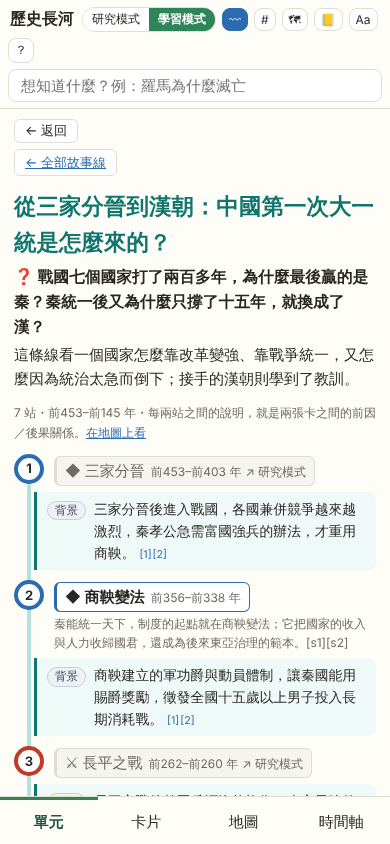
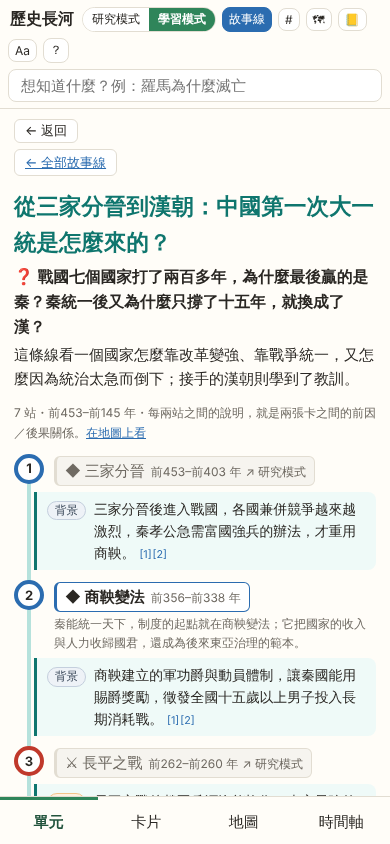
依 Fable 複查修正：因果條目改 10 刪 3、新增「西力東漸」故事線、所在故事列合併、關係說明可展開
- 歷史：技術→戰爭改為「背景」並註明影響的是戰局；刪除來源撐不起的 3 條；十信、威尼斯、索利都斯、大蕭條等條目修正與補來源
- 教學：故事線問題避免單因與誤導；新增 story-western-impact（蒸汽機→鴉片戰爭→自強運動→辛亥革命）
- UIUX：單元與故事線上下站相同時合併；手機「故事線」改文字；關係標籤加 aria-label、可展開「四種關係是什麼意思」；濾掉 [s] 代號

Claude-Session: https://claude.ai/code/session_01JFJ5rd6R8SGhXn5wyjPUjh

diff --git a/src/components/Story.tsx b/src/components/Story.tsx
@@ -48,7 +48,7 @@ function Sources({ list }: { list: CauseSource[] }) {
 }
 
 export function RelChip({ rel }: { rel: CauseRel }) {
-  return <span className={`rel-chip ${REL_CLASS[rel] ?? ''}`} title={REL_HELP[rel]}>{rel}</span>;
+  return <span className={`rel-chip ${REL_CLASS[rel] ?? ''}`} title={REL_HELP[rel]} aria-label={`${rel}：${REL_HELP[rel]}`}>{rel}</span>;
 }
 
 /** 從哪裡來／往哪裡去 */
@@ -66,15 +66,18 @@ export function CauseList({ card, side, index, onOpen, canOpen, researchHref, co
         {sorted.map((x, i) => (
           <li key={i}>
             <div className="ce-line">
-              {isCause ? <><CardRef id={x.id} name={x.name} index={index} onOpen={onOpen} canOpen={canOpen} researchHref={researchHref} /><span className="ce-arrow" aria-hidden>─</span><RelChip rel={x.rel} /><span className="ce-arrow" aria-hidden>▶ 本卡</span></>
-                : <><span className="ce-arrow" aria-hidden>本卡 ─</span><RelChip rel={x.rel} /><span className="ce-arrow" aria-hidden>▶</span><CardRef id={x.id} name={x.name} index={index} onOpen={onOpen} canOpen={canOpen} researchHref={researchHref} /></>}
+              {isCause ? <><CardRef id={x.id} name={x.name} index={index} onOpen={onOpen} canOpen={canOpen} researchHref={researchHref} /><span className="ce-rel"><RelChip rel={x.rel} /><span className="ce-arrow" aria-hidden>→ 本卡</span></span></>
+                : <><span className="ce-rel"><span className="ce-arrow" aria-hidden>本卡 →</span><RelChip rel={x.rel} /></span><CardRef id={x.id} name={x.name} index={index} onOpen={onOpen} canOpen={canOpen} researchHref={researchHref} /></>}
               {x.disputed && <span className="badge dispute" title="史家對這個因果看法不一">史家看法不一</span>}
             </div>
             <p className="ce-why">{x.why}<Sources list={x.sources} /></p>
           </li>
         ))}
       </ul>
-      {!compact && <p className="ce-help muted small">關係由強到弱：直接引發 ＞ 促成 ＞ 背景；「回應」是對前一件事的反應。一件大事通常不只一個原因。</p>}
+      <details className="ce-help small"><summary>四種關係是什麼意思？</summary>
+        <ul>{(Object.keys(REL_HELP) as CauseRel[]).map((r) => <li key={r}><RelChip rel={r} /> {REL_HELP[r]}</li>)}</ul>
+        <p className="muted">由強到弱：直接引發 ＞ 促成 ＞ 背景；「回應」是對前一件事的反應。一件大事通常不只一個原因，這裡只列最重要的幾個。</p>
+      </details>
     </section>
   );
 }
@@ -116,22 +119,33 @@ export function PathNav({ card, index, onOpen, canOpen, researchHref, onUnit, un
     if (canOpen && !canOpen(c)) return researchHref ? <a className={`pn-step ${dir}`} href={researchHref(id)}>{label}</a> : null;
     return <button className={`pn-step ${dir}`} onClick={() => onOpen(id)}>{label}</button>;
   };
+  // 學習單元和故事線的上一站／下一站常常一樣：一樣的只畫一組按鈕，手機上才不會又高又重複
+  const groups: { key: string; hits: PathHit[] }[] = [];
+  for (const h of hits) {
+    const key = `${h.prev ?? ''}|${h.next ?? ''}`;
+    const g = groups.find((x) => x.key === key);
+    if (g) g.hits.push(h); else groups.push({ key, hits: [h] });
+  }
   return (
     <nav className="path-nav" aria-label="這張卡在哪些故事裡">
       <div className="pn-label">這張卡在這些故事裡</div>
-      {hits.map((h) => (
-        <div key={h.kind + h.id} className={`pn-row ${h.kind}`}>
-          <div className="pn-title">
-            <span className="pn-kind">{h.kind === 'unit' ? '學習單元' : '故事線'}</span>
-            {h.kind === 'story' ? <button className="link" onClick={() => onStory(h.id)}>《{h.title}》</button>
-              : onUnit ? <button className="link" onClick={() => onUnit(h.id)}>《{h.title}》</button>
-              : unitHref ? <a className="link" href={unitHref(h.id)}>《{h.title}》</a> : <span>《{h.title}》</span>}
-            <span className="pn-dots" aria-label={`第 ${h.pos} 站，共 ${h.total} 站`}>
-              {Array.from({ length: h.total }, (_, i) => <i key={i} className={i + 1 === h.pos ? 'on' : i + 1 < h.pos ? 'past' : ''} />)}
-            </span>
-            <span className="pn-pos">第 {h.pos}／{h.total} 站</span>
-          </div>
-          <div className="pn-steps">{step(h.prev, 'prev')}{step(h.next, 'next')}</div>
+      {groups.map((g) => (
+        <div key={g.key} className="pn-group">
+          {g.hits.map((h) => (
+            <div key={h.kind + h.id} className={`pn-row ${h.kind}`}>
+              <span className="pn-kind">{h.kind === 'unit' ? '學習單元' : '故事線'}</span>
+              {h.kind === 'story' ? <button className="link pn-name" onClick={() => onStory(h.id)}>《{h.title}》</button>
+                : onUnit ? <button className="link pn-name" onClick={() => onUnit(h.id)}>《{h.title}》</button>
+                : unitHref ? <a className="link pn-name" href={unitHref(h.id)}>《{h.title}》</a> : <span className="pn-name">《{h.title}》</span>}
+              <span className="pn-where">
+                <span className="pn-dots" aria-hidden>
+                  {Array.from({ length: h.total }, (_, i) => <i key={i} className={i + 1 === h.pos ? 'on' : i + 1 < h.pos ? 'past' : ''} />)}
+                </span>
+                <span className="pn-pos">第 {h.pos}／{h.total} 站</span>
+              </span>
+            </div>
+          ))}
+          <div className="pn-steps">{step(g.hits[0].prev, 'prev')}{step(g.hits[0].next, 'next')}</div>
         </div>
       ))}
     </nav>
@@ -178,7 +192,7 @@ export function StorylineView({ id, index, currentId, onOpen, onAll, canOpen, re
                 <span className="sv-dot" style={{ borderColor: TYPE_COLOR[c.type] }}>{i + 1}</span>
                 <div className="sv-card">
                   <CardRef id={c.id} index={index} onOpen={onOpen} canOpen={canOpen} researchHref={researchHref} />
-                  {c.learn?.why_care && <p className="sv-why muted small">{c.learn.why_care}</p>}
+                  {c.learn?.why_care && <p className="sv-why muted small">{c.learn.why_care.replace(/\[s\d+\]/g, '')}</p>}
                 </div>
               </div>
               {x.bridge && (

diff --git a/src/components/story.css b/src/components/story.css
@@ -15,13 +15,18 @@
 .cause-list ul { list-style: none; margin: 0; padding: 0; }
 .cause-list li { padding: 6px 0; border-top: 1px dashed var(--story-line); }
 .cause-list li:first-child { border-top: 0; padding-top: 2px; }
-.ce-line { display: flex; flex-wrap: wrap; align-items: center; gap: 4px 6px; }
+.ce-line { display: flex; flex-wrap: wrap; align-items: center; gap: 4px 8px; }
+.ce-rel { display: inline-flex; align-items: center; gap: 5px; white-space: nowrap; }
 .ce-arrow { color: var(--story); font-size: 12px; white-space: nowrap; }
 .ce-why { margin: 3px 0 0; font-size: .92em; line-height: 1.6; }
 .ce-src { margin-left: 3px; font-size: .78em; white-space: nowrap; }
 .ce-src a { color: var(--accent); text-decoration: none; margin-left: 1px; }
 .ce-src a:hover { text-decoration: underline; }
-.ce-help { margin: 4px 0 0; }
+.ce-help { margin: 6px 0 2px; }
+.ce-help summary { cursor: pointer; color: var(--muted); }
+.ce-help summary:hover, .ce-help summary:focus-visible { color: var(--story); }
+.ce-help ul { list-style: none; margin: 4px 0; padding: 0; display: grid; gap: 3px; }
+.ce-help p { margin: 2px 0 0; }
 .cause-list.compact { padding: 6px 10px 4px; }
 
 /* 卡片名稱按鈕 */
@@ -38,17 +43,19 @@
 /* 這張卡在這些故事裡 */
 .path-nav { border: 1px solid var(--story-line); border-radius: 10px; background: #fff; margin: 8px 0; padding: 6px 10px; }
 .pn-label { font-size: 12px; color: var(--story); font-weight: 700; margin-bottom: 2px; }
-.pn-row { padding: 5px 0; border-top: 1px solid #edf5f3; }
-.pn-row:first-of-type { border-top: 0; }
-.pn-title { display: flex; flex-wrap: wrap; align-items: center; gap: 4px 8px; font-size: .93em; }
-.pn-kind { font-size: 11px; border-radius: 4px; padding: 0 5px; background: var(--story-bg); color: var(--story); border: 1px solid var(--story-line); }
+.pn-group { padding: 4px 0 6px; border-top: 1px solid #edf5f3; }
+.pn-group:first-of-type { border-top: 0; }
+.pn-row { display: flex; flex-wrap: wrap; align-items: center; gap: 2px 8px; font-size: .93em; padding: 2px 0; }
+.pn-name { text-align: left; }
+.pn-where { display: inline-flex; align-items: center; gap: 6px; margin-left: auto; }
+.pn-kind { font-size: 11px; border-radius: 4px; padding: 0 5px; background: var(--story-bg); color: var(--story); border: 1px solid var(--story-line); white-space: nowrap; }
 .pn-row.unit .pn-kind { background: #eef4fb; color: #2b6cb0; border-color: #c3d6ee; }
 .pn-dots { display: inline-flex; gap: 3px; align-items: center; }
 .pn-dots i { width: 8px; height: 8px; border-radius: 50%; background: #d9e6e3; display: inline-block; }
 .pn-dots i.past { background: #8fcfc6; }
 .pn-dots i.on { background: var(--story); width: 11px; height: 11px; }
-.pn-pos { font-size: 12px; color: var(--muted); }
-.pn-steps { display: flex; justify-content: space-between; gap: 8px; margin-top: 4px; flex-wrap: wrap; }
+.pn-pos { font-size: 12px; color: var(--muted); white-space: nowrap; }
+.pn-steps { display: flex; justify-content: space-between; gap: 6px 8px; margin-top: 4px; flex-wrap: wrap; }
 .pn-step { font: inherit; font-size: 13px; background: var(--story-bg); border: 1px solid var(--story-line); border-radius: 6px; padding: 4px 10px; color: var(--story);
   cursor: pointer; text-decoration: none; min-height: 32px; display: inline-flex; align-items: center; max-width: 100%; }
 .pn-step:hover { background: #dcf3ef; }
@@ -84,8 +91,12 @@
 .si-q { font-size: .93em; }
 
 @media (max-width: 640px) {
-  .pn-steps { flex-direction: column; }
+  .path-nav { padding: 5px 8px; }
+  .pn-row { font-size: .9em; }
+  .pn-steps { display: grid; grid-template-columns: 1fr; gap: 5px; }
+  .pn-step { font-size: 12.5px; padding: 4px 8px; line-height: 1.35; display: -webkit-box; -webkit-line-clamp: 2; -webkit-box-orient: vertical; overflow: hidden; align-items: start; }
   .pn-step.next { margin-left: 0; }
   .sv-bridge { margin-left: 20px; }
+  .cause-list { padding: 6px 10px 4px; }
 }
 .home-stories { display: grid; grid-template-columns: repeat(auto-fill, minmax(240px, 1fr)); gap: 8px; margin: 6px 0 12px; }

diff --git a/src/learn/LearnApp.tsx b/src/learn/LearnApp.tsx
@@ -186,7 +186,7 @@ export function LearnApp({ index, onResearch }: { index: Index; onResearch: () =
         {!query && !isMobile && index.units.length > 0 && <div className="suggest">試試：{index.units.slice(0, 3).map((u) => <button key={u.id} className="link" onClick={() => openUnit(u.id)}>{u.mystery}</button>)}</div>}
       </div>
       {!isMobile && <button className="btn sm" onClick={random} title="隨機一個謎題" aria-label="隨機一個謎題">🎲</button>}
-      {(index.storylines ?? []).length > 0 && <button className={`btn sm ${view.kind === 'story' || view.kind === 'stories' ? 'on' : ''}`} onClick={() => { setQuery(''); push({ kind: 'stories' }); }} title="故事線：沿著前因 → 後果，把不同時代的事件接成一條路" aria-label="故事線">〰{!isMobile && ' 故事線'}</button>}
+      {(index.storylines ?? []).length > 0 && <button className={`btn sm ${view.kind === 'story' || view.kind === 'stories' ? 'on' : ''}`} onClick={() => { setQuery(''); push({ kind: 'stories' }); }} title="故事線：沿著前因 → 後果，把不同時代的事件接成一條路" aria-label="故事線">{isMobile ? '故事線' : '〰 故事線'}</button>}
       <button className={`btn sm ${view.kind === 'topic' || view.kind === 'topics' ? 'on' : ''}`} onClick={() => { setQuery(''); push({ kind: 'topics' }); }} title="主題標籤：把同一個主題的卡片依年代串成歷史路徑" aria-label="主題標籤">#{!isMobile && ' 主題標籤'}</button>
       <button className="btn sm" onClick={() => push({ kind: 'mymap' })} title="我的歷史地圖">🗺{!isMobile && ' 我的地圖'}</button>
       <button className="btn sm" onClick={() => push({ kind: 'record' })} title="我的學習紀錄：進度、答對率、寫過的回答">📒{!isMobile && ' 紀錄'}</button>

diff --git a/src/learn/LearnHome.tsx b/src/learn/LearnHome.tsx
@@ -81,7 +81,7 @@ export function LearnHome({ index, p, onHistory, onUnit, onRandom, onIntroSeen, 
           {onStory && (index.storylines ?? []).length > 0 && <>
             <p className="muted"><b>故事線</b>：一件事怎麼引出下一件事，跨越不同時代和地區。每一站之間都說明「怎麼造成的」。</p>
             <div className="home-stories">
-              {(index.storylines ?? []).map((s) => <button key={s.id} className="si-item" onClick={() => onStory(s.id)}><span className="si-title">〰 {s.title}</span><span className="si-q">{s.question}</span><span className="si-meta muted small">{s.stops.length} 站</span></button>)}
+              {(index.storylines ?? []).map((s) => <button key={s.id} className="si-item" onClick={() => onStory(s.id)}><span className="si-title">{s.title}</span><span className="si-q">{s.question}</span><span className="si-meta muted small">{s.stops.length} 站</span></button>)}
             </div>
           </>}
           <p className="muted"><b>主題標籤</b>：每張卡都有「主題標籤」。點一個標籤，就能看到同一件事物從古到今的歷史路徑。</p>

diff --git a/src/learn/LearnCard.tsx b/src/learn/LearnCard.tsx
@@ -59,7 +59,7 @@ export function LearnCard({ card: c, index, history, depth: depth0 = 'story', on
           {c.verification === '爭議' && <span className="badge dispute" title="不同來源說法不一，內文並列各方說法">有爭議</span>}
           {L.crosscheck?.result === '通過' ? <span className="badge ok" title={`${L.crosscheck.date} 由${L.crosscheck.by}查核`}>✓ 已交叉查核</span> : <span className="badge dispute">開發中：尚未查核</span>}
         </div>
-        <p className="why">💡 {L.why_care}</p>
+        <p className="why">💡 {L.why_care.replace(/\[s\d+\]/g, '')}</p>
         {onTopic && <TopicChips card={c} index={index} onTopic={onTopic} count={topicCount} />}
         {views.length > 1 && (
           <div className="persp-switch">也可以從

diff --git a/cards/finance/finance-great-depression.md b/cards/finance/finance-great-depression.md
@@ -25,7 +25,7 @@ causes:
   - { id: finance-federal-reserve, rel: 促成, why: 聯準會 1929 年升息想壓投機，金本位下各國被迫跟進；之後又沒擋住銀行擠兌，貨幣大減，衰退變成大蕭條。, src: [s3, s4] }
 effects:
   - { name: 羅斯福新政（1933–1939）, rel: 回應, why: 為了止住銀行倒閉，羅斯福推出銀行法、存款保險公司和證券交易委員會，替金融立下新規則。, src: [s2, s4, s5] }
-  - { id: war-world-war-two, rel: 背景, why: 有學者認為，經濟危機讓德、日相信政府比市場更能解決問題，兩種模式之爭最後走向世界大戰。, src: [war-world-war-two:s8], disputed: true }
+  - { id: war-world-war-two, rel: 背景, why: 大蕭條讓德國失業暴增、許多人對民主失去信心，納粹上台後靠軍備支出消化失業；日本經濟重創，軍部激進派趁機推動對外擴張。史家對經濟危機有多重要仍有爭論。, src: [s14, war-world-war-two:s8], disputed: true }
 counterparts:
   - { id: finance-taiwan-stock-exchange, note: "相似：都是借錢炒股把指數推到高點後崩跌——道瓊指數從 1929 年 381 點跌到 1932 年 41 點（約 89%），台股從 1990 年 2 月 12,682 點跌到 10 月 2,485 點（約 80%）。不同：美國股災之後接著銀行倒閉潮與全球大蕭條；台股崩盤的資料主要談股市本身，沒有演變成類似規模的經濟大蕭條（來源未提及）。", src: [s1, s3, s9, s10] }
 sources:
@@ -42,6 +42,7 @@ sources:
   - { id: s11, title: "李彔〈價值投資在中國的展望〉北京大學演講（2015-10-23，喜馬拉雅資本官網 PDF）", url: "https://cdn.prod.website-files.com/5ef3c7300432b40ed865991a/5f0936c4321954706fa9eca2_%E4%BB%B7%E5%80%BC%E6%8A%95%E8%B5%84%E5%9C%A8%E4%B8%AD%E5%9B%BD%E7%9A%84%E5%B1%95%E6%9C%9B-%E6%9D%8E%E5%BD%952015-10-23%E5%8C%97%E5%A4%A7%E6%BC%94%E8%AE%B2.pdf", accessed: 2026-10-25, tier: 摘要 }
   - { id: s12, title: "Franklin D. Roosevelt, Fireside Chat on Banking, March 12, 1933 — The American Presidency Project（UC Santa Barbara）", url: "https://www.presidency.ucsb.edu/documents/fireside-chat-banking", accessed: 2026-10-25, tier: 一手 }
   - { id: s13, title: "Gary Richardson, Banking Panics of 1930-31 — Federal Reserve History, 2013-11-22", url: "https://www.federalreservehistory.org/essays/banking-panics-1930-31", accessed: 2026-10-25, tier: 通論 }
+  - { id: s14, title: "Causes of World War II — Wikipedia（大蕭條與德、日走向戰爭；Mason 與 Overy 的爭論）", url: "https://en.wikipedia.org/wiki/Causes_of_World_War_II", accessed: 2026-11-02, tier: 百科 }
 importance: 3
 learn:
   histories: [美洲史, 錢的歷史, 世界通史]

diff --git a/cards/finance/finance-tenth-credit-1985.md b/cards/finance/finance-tenth-credit-1985.md
@@ -23,7 +23,7 @@ links: [finance-taiwan-stock-exchange, finance-taiwan-1949-currency, event-taiwa
 causes:
   - { name: 金融監理寬鬆與政商關係（1980年代）, rel: 促成, why: 官員多年容忍違規放款，蔡辰洲還與立委組「十三兄弟」遊說財經官員，讓超貸問題越滾越大。, src: [s1, s3] }
 effects:
-  - { name: 中央存款保險公司成立（1985）, rel: 回應, why: 十信擠兌暴露存款人缺乏保障，同年政府成立中央存款保險公司，此後信用合作社擠兌不再重演。, src: [s6] }
+  - { name: 中央存款保險公司開業（1985）, rel: 背景, why: 存款保險條例在十信案前一個月才公布；十信擠兌讓大家看到存款沒有保障，中央存款保險公司同年 9 月開業，此後信合社擠兌不再重演。, src: [s6, s9] }
 counterparts: 無適當對照：本站同時代的西方軌沒有單一金融機構擠兌的卡片；擠兌結構可對照「大蕭條」與「2008 金融危機」卡，但時代差太多，不列為同期對照。
 sources:
   - { id: s1, title: "十信案 — 維基百科（中文）", url: "https://zh.wikipedia.org/zh-tw/%E5%8D%81%E4%BF%A1%E6%A1%88", accessed: 2026-10-25, tier: 百科 }
@@ -33,6 +33,7 @@ sources:
   - { id: s5, title: "1985 in Taiwan — Wikipedia", url: "https://en.wikipedia.org/wiki/1985_in_Taiwan", accessed: 2026-10-25, tier: 百科 }
   - { id: s6, title: "行政院新聞，〈中央存款保險公司成立 40 週年茶會〉院長致詞，2025-09-10", url: "https://www.ey.gov.tw/Page/9277F759E41CCD91/ac2db7bc-2038-4e3c-8aaa-187b1d921f69", accessed: 2026-10-25, tier: 通論 }
   - { id: s8, title: "Hsu Li-teh — Wikipedia（1984-05 至 1985-03 任經濟部長）", url: "https://en.wikipedia.org/wiki/Hsu_Li-teh", accessed: 2026-10-25, tier: 百科 }
+  - { id: s9, title: "中央存款保險公司 — 維基百科（存款保險條例 1985-01-09 公布、公司 1985-09-27 開業）", url: "https://zh.wikipedia.org/wiki/%E4%B8%AD%E5%A4%AE%E5%AD%98%E6%AC%BE%E4%BF%9D%E9%9A%AA%E5%85%AC%E5%8F%B8", accessed: 2026-11-02, tier: 百科 }
   - { id: s7, title: "Tsai Chen-chou — Wikipedia", url: "https://en.wikipedia.org/wiki/Tsai_Chen-chou", accessed: 2026-10-25, tier: 百科 }
 importance: 2
 learn:

diff --git a/cards/finance/finance-byzantine-solidus.md b/cards/finance/finance-byzantine-solidus.md
@@ -25,7 +25,7 @@ causes:
   - { name: 羅馬貨幣混亂（3–4世紀）, rel: 回應, why: 舊金幣的重量和成色不穩，交易時不知道錢值多少，君士坦丁推出重量成色固定的索利都斯來解決。, src: [s1] }
   - { name: 曼齊克特之戰（1071年）, rel: 促成, why: 戰敗後帝國失去安納托利亞大片土地，財政與軍事壓力加重，金幣加速貶值，最後在 1092 年被新幣取代。, src: [s1, s7] }
 effects:
-  - { name: 伊斯蘭金第納爾（7世紀末）, rel: 促成, why: 倭馬亞哈里發改革幣制時，金第納爾的造型與重量參考了索利都斯，成為它的競爭對手。, src: [s4, "finance-abbasid-sakk-hawala:s8"] }
+  - { name: 伊斯蘭金第納爾（7世紀末）, rel: 回應, why: 倭馬亞哈里發先仿造索利都斯，再推出自己的金第納爾，重量依當時流通的索利都斯訂定，從此與拜占庭金幣分庭抗禮。, src: [s4, s9, "finance-abbasid-sakk-hawala:s8"] }
 counterparts: "無適當對照：中國軌沒有以黃金為本位、跨國通行的國際硬幣；五銖錢是銅錢，主要在帝國內部流通，兩者性質不同，不硬湊。"
 sources:
   - { id: s1, title: "Solidus (coin) — Wikipedia", url: "https://en.wikipedia.org/wiki/Solidus_(coin)", accessed: 2026-10-31, tier: 百科 }
@@ -36,6 +36,7 @@ sources:
   - { id: s6, title: "Ducat — Wikipedia", url: "https://en.wikipedia.org/wiki/Ducat", accessed: 2026-10-31, tier: 百科 }
   - { id: s7, title: "Battle of Manzikert — Wikipedia", url: "https://en.wikipedia.org/wiki/Battle_of_Manzikert", accessed: 2026-10-31, tier: 百科 }
   - { id: s8, title: "Cosmas Indicopleustes, Christian Topography（6 世紀，第二卷論羅馬金幣；英譯本 McCrindle, 1897）— 條目介紹頁：Christian Topography, Wikipedia", url: "https://en.wikipedia.org/wiki/Christian_Topography", accessed: 2026-10-31, tier: 一手 }
+  - { id: s9, title: "Gold dinar — Wikipedia（阿布杜勒·馬利克的第納爾先仿索利都斯、重量依流通中的索利都斯而定）", url: "https://en.wikipedia.org/wiki/Gold_dinar", accessed: 2026-11-02, tier: 百科 }
 importance: 3
 learn:
   histories: [世界通史, 錢的歷史, 歐洲史, 希臘羅馬史]

diff --git a/cards/tech/tech-railway.md b/cards/tech/tech-railway.md
@@ -33,7 +33,7 @@ causes:
 effects:
   - { name: 鐵路標準時間（1840–1880）, rel: 直接引發, why: 各地原本用自己的地方時間，為了排火車時刻表，英國鐵路公司改用格林威治時間，1880 年成為法定標準時間。, src: [s8] }
   - { id: event-gilded-age-industrialization, rel: 促成, why: 1869 年橫貫鐵路接通後，鐵路把原料、工廠與市場串成一張網，鋼鐵、石油等產業長出巨型公司。, src: [s5, event-gilded-age-industrialization:s3, event-gilded-age-industrialization:s4] }
-  - { id: war-american-civil-war, rel: 促成, why: 北方鐵路里程約為南方兩倍多，能把兵員和軍需運往前線，南方補給則越來越吃緊。, src: [war-american-civil-war:s1] }
+  - { id: war-american-civil-war, rel: 背景, why: 北方鐵路里程約為南方兩倍多，能把兵員和軍需運往前線，南方補給越來越吃緊；鐵路影響的是戰局，不是開戰的原因。, src: [war-american-civil-war:s1] }
 counterparts:
   - { id: building-grand-canal, note: "相似：都把遠方的產地和大城市連成一條運輸網，讓糧食、煤這類又重又便宜的大宗貨物可以長距離移動。不同：大運河是隋朝政府徵調大量勞力開鑿、主要供應首都與軍隊；早期英國鐵路是民間公司集資興建、靠收運費賺錢並發股利給投資人。", src: [s1, s3, s11] }
 sources:

diff --git a/cards/tech/tech-steam-engine.md b/cards/tech/tech-steam-engine.md
@@ -26,7 +26,7 @@ causes:
   - { name: 薩弗里蒸汽抽水機（1698）, rel: 背景, why: 薩弗里先做出用蒸汽抽水的機器並取得專利，紐科門再做出能在煤礦穩定運轉的大氣式蒸汽機。, src: [s1] }
 effects:
   - { id: tech-railway, rel: 促成, why: 蒸汽機裝上車輪成了火車頭，拉車運煤的成本約只有用馬的一半，1825 年起出現用蒸汽火車頭的公共鐵路。, src: [s3, tech-railway:s1] }
-  - { id: war-opium-war, rel: 促成, why: 英國艦隊靠蒸汽船和射程更遠的大炮沿海北上、切斷大運河，清朝打不過只好簽約。, src: [war-opium-war:s1] }
+  - { id: war-opium-war, rel: 背景, why: 蒸汽船能逆風逆流駛入內河，英軍靠它沿海北上、切斷大運河，清朝打不過只好簽約；它影響的是戰局，不是開戰的原因。, src: [war-opium-war:s1] }
   - { id: tech-electric-grid, rel: 背景, why: 發電廠用蒸汽轉動發電機，再用電線把電送到遠方，電力才能取代工廠裡各自裝的蒸汽機。, src: [tech-electric-grid:s6, tech-electric-grid:s8] }
 counterparts: "無適當對照：中國軌道沒有同時期、同性質的動力機械卡；李彔提到「為什麼中國沒有出現蒸汽機」正是一個「沒有發生」的問題，不是可對照的事件，寫在 T6。"
 sources:

diff --git a/cards/event/event-end-of-cold-war.md b/cards/event/event-end-of-cold-war.md
@@ -30,7 +30,7 @@ causes:
 effects:
   - { name: 德國統一（1990）, rel: 直接引發, why: 1989 年柏林圍牆開放後，東德共產政權失去控制，東西德在 1990 年 10 月 3 日統一。, src: [s4] }
   - { name: 俄羅斯經濟崩跌（1991–1998）, rel: 促成, why: 轉向市場經濟時生活水準大跌、國產被低價賣給寡頭；有學者歸咎休克療法，也有學者認為是法治崩潰。, src: [s5, s6], disputed: true }
-  - { id: event-reform-and-opening, rel: 背景, why: 東歐劇變與蘇聯解體後，中共保守派更反對市場改革；鄧小平 1992 年南巡，才讓改革重新加速。, src: [event-reform-and-opening:s6] }
+  - { id: event-reform-and-opening, rel: 背景, why: 改革開放 1978 年就開始；東歐劇變與蘇聯解體讓中共保守派更反對市場化，改革一度放慢，鄧小平 1992 年南巡才讓它重新加速。, src: [event-reform-and-opening:s6] }
 counterparts:
   - { id: event-reform-and-opening, note: "相似：中蘇兩大共產國家在 1980 年代都面對計畫經濟停滯，都嘗試改革。不同：蘇聯在戈巴契夫下同時放寬政治與言論，最後聯盟瓦解；中國只改經濟、維持共產黨統治，1989 年鎮壓天安門抗議，1992 年後加速市場化。", src: [s1, s3, s11] }
 sources:
